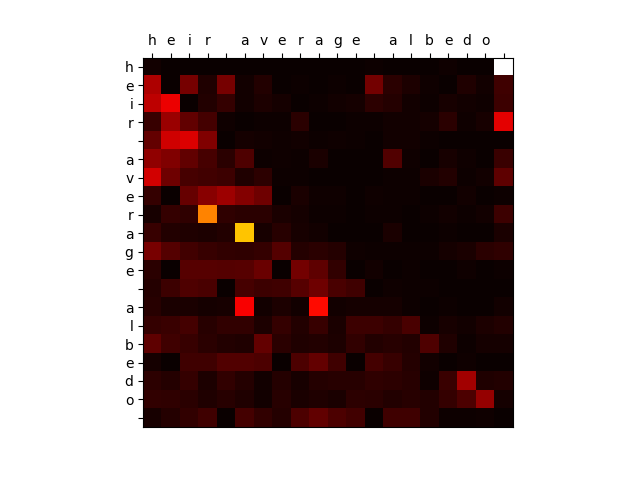
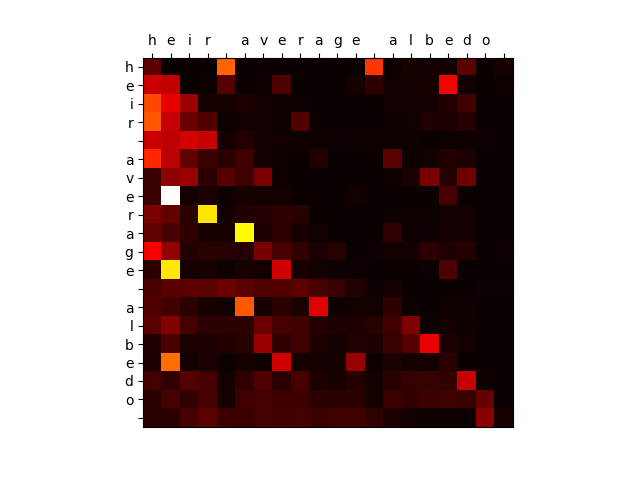
cleaned comments

diff --git a/transformer.py b/transformer.py
@@ -39,20 +39,15 @@ class Transformer(nn.Module):
         self.log_softmax = nn.LogSoftmax(dim=-1) # -1 is the last dimension
     
     def forward(self, indices):
-        # Step 1: Embed the input indices
         embedded = self.embedding(indices)
-        
-        # Step 2: Add positional encodings
         embedded_with_pos = self.positional_encoding(embedded)
-        
-        # Step 3: Pass through Transformer layers
         attn_maps = []
         output = embedded_with_pos
         for layer in self.layers:
             output, attn_map = layer(output)
             attn_maps.append(attn_map)
         
-        # Step 4: Predict at each position
+        # Predict at each position
         logits = self.fc_out(output)
         log_probs = self.log_softmax(logits)
         
@@ -69,13 +64,12 @@ class TransformerLayer(nn.Module):
         self.key_layer = nn.Linear(d_model, d_internal)
         self.value_layer = nn.Linear(d_model, d_internal)
         self.d_internal = d_internal
-
         self.linear1 = nn.Linear(d_internal, d_internal)
         self.relu = nn.ReLU() # non-linearity
         self.linear2 = nn.Linear(d_internal, d_model)
 
     def forward(self, input_vecs):
-        # Compute query, key, and value vectors of dim [batch_size, seq_len, d_internal]
+        # [batch_size, seq_len, d_internal]
         queries = self.query_layer(input_vecs)
         keys = self.key_layer(input_vecs)
         values = self.value_layer(input_vecs)
@@ -133,7 +127,7 @@ class PositionalEncoding(nn.Module):
 
 # This is a skeleton for train_classifier: you can implement this however you want
 def train_classifier(args, train, dev):
-    model = Transformer(vocab_size=27, num_positions=20, d_model=64, d_internal=128, num_classes=3, num_layers=1) # 27 characters, 3 classes
+    model = Transformer(vocab_size=27, num_positions=20, d_model=64, d_internal=128, num_classes=3, num_layers=4) # 27 characters, 3 classes
     model.train()
     optimizer = optim.Adam(model.parameters(), lr=1e-4)
     loss_fn = nn.NLLLoss()
@@ -142,11 +136,7 @@ def train_classifier(args, train, dev):
         total_loss = 0.0
         for example in train:
             optimizer.zero_grad()
-            
-            # Forward pass
             log_probs, _ = model(example.input_tensor)
-            
-            # Compute loss
             loss = loss_fn(log_probs.squeeze(0), example.output_tensor)
             loss.backward()
             optimizer.step()

diff --git a/transformer_lm.py b/transformer_lm.py
@@ -78,7 +78,7 @@ class NeuralLanguageModel(LanguageModel, nn.Module):
         if not context:
             return np.log(np.ones(self.vocab_size) / self.vocab_size)
         
-        context_indices = [self.vocab_index.index_of(c) for c in context[-self.num_positions:]]
+        context_indices = [self.vocab_index.index_of(c) for c in context[-self.num_positions:]] # Get last num_positions characters
         context_tensor = torch.LongTensor(context_indices).unsqueeze(1)  # Add batch dimension
         with torch.no_grad():
             output = self.forward(context_tensor)
@@ -103,7 +103,7 @@ def train_lm(args, train_text, dev_text, vocab_index):
     criterion = nn.CrossEntropyLoss()
 
     chunk_size = 20
-    num_epochs = 10
+    num_epochs = 1
 
     for epoch in range(num_epochs):
         model.train()
